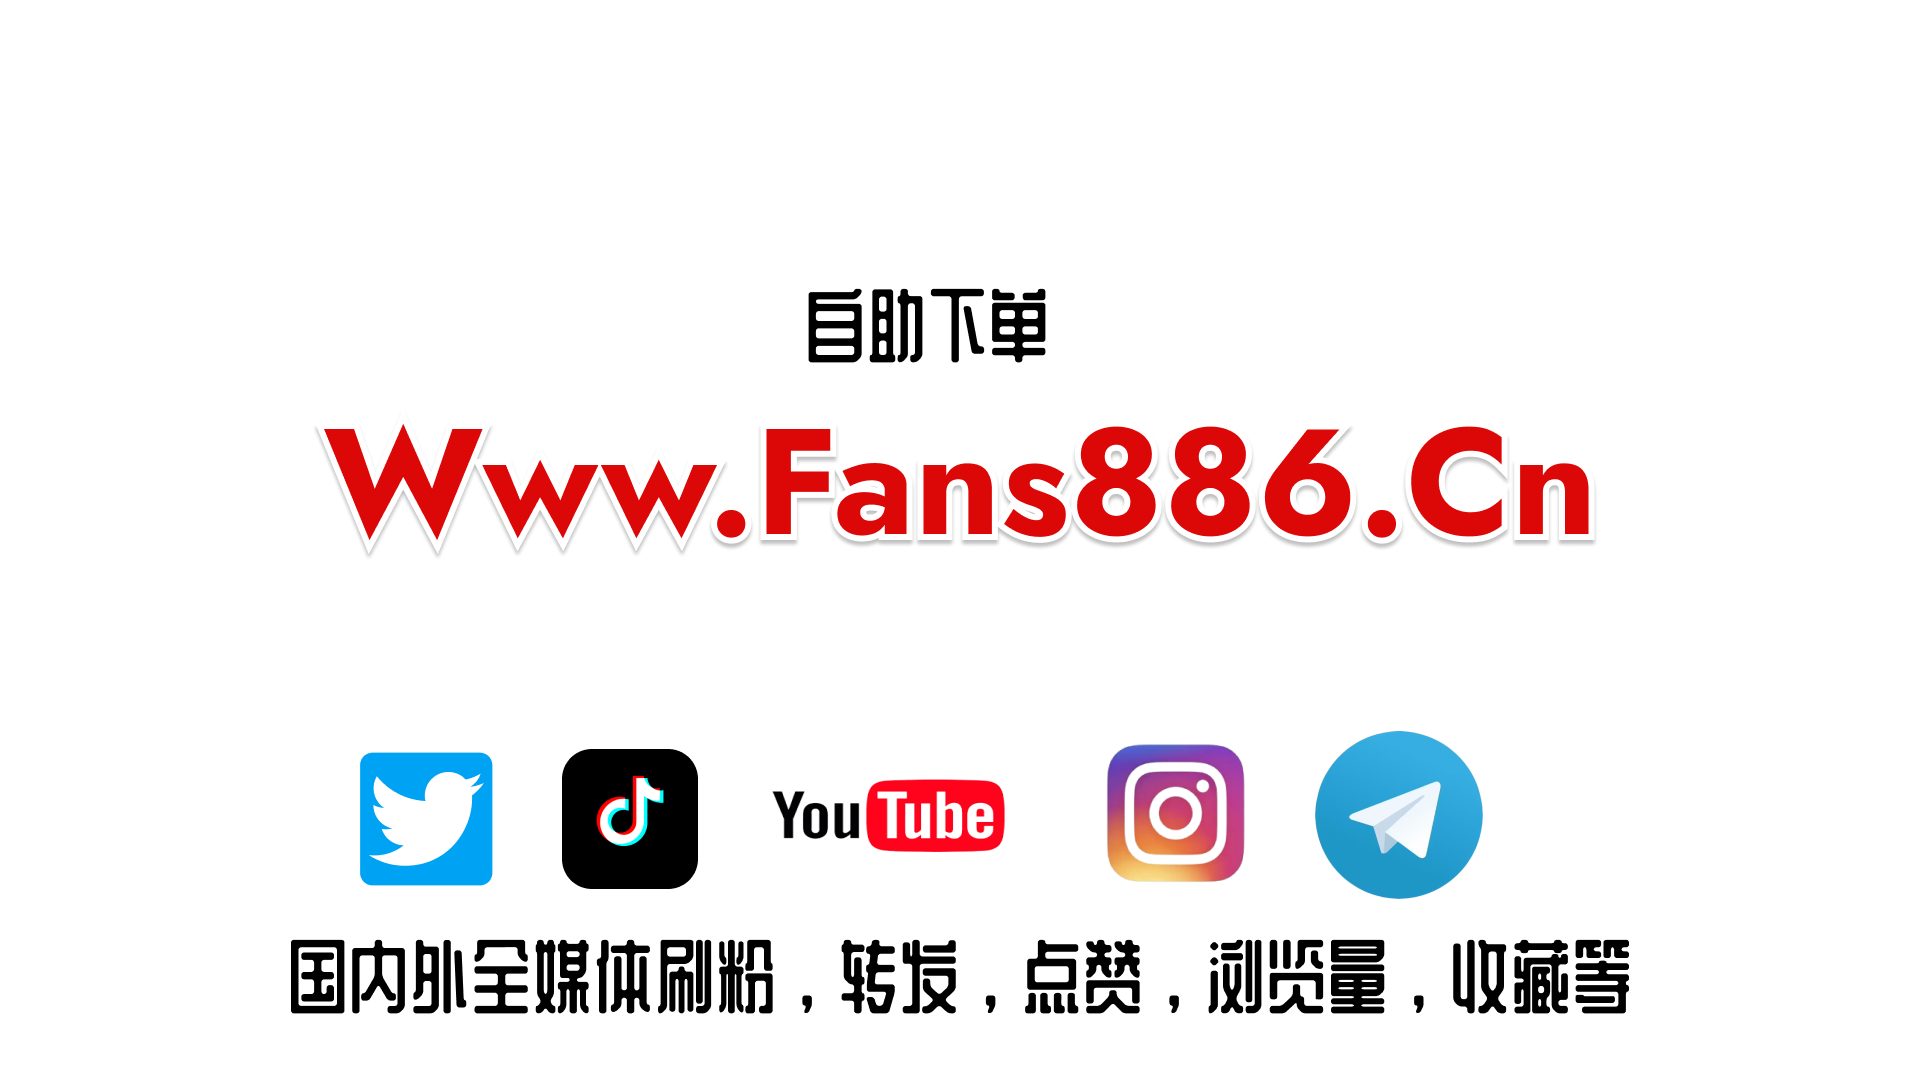
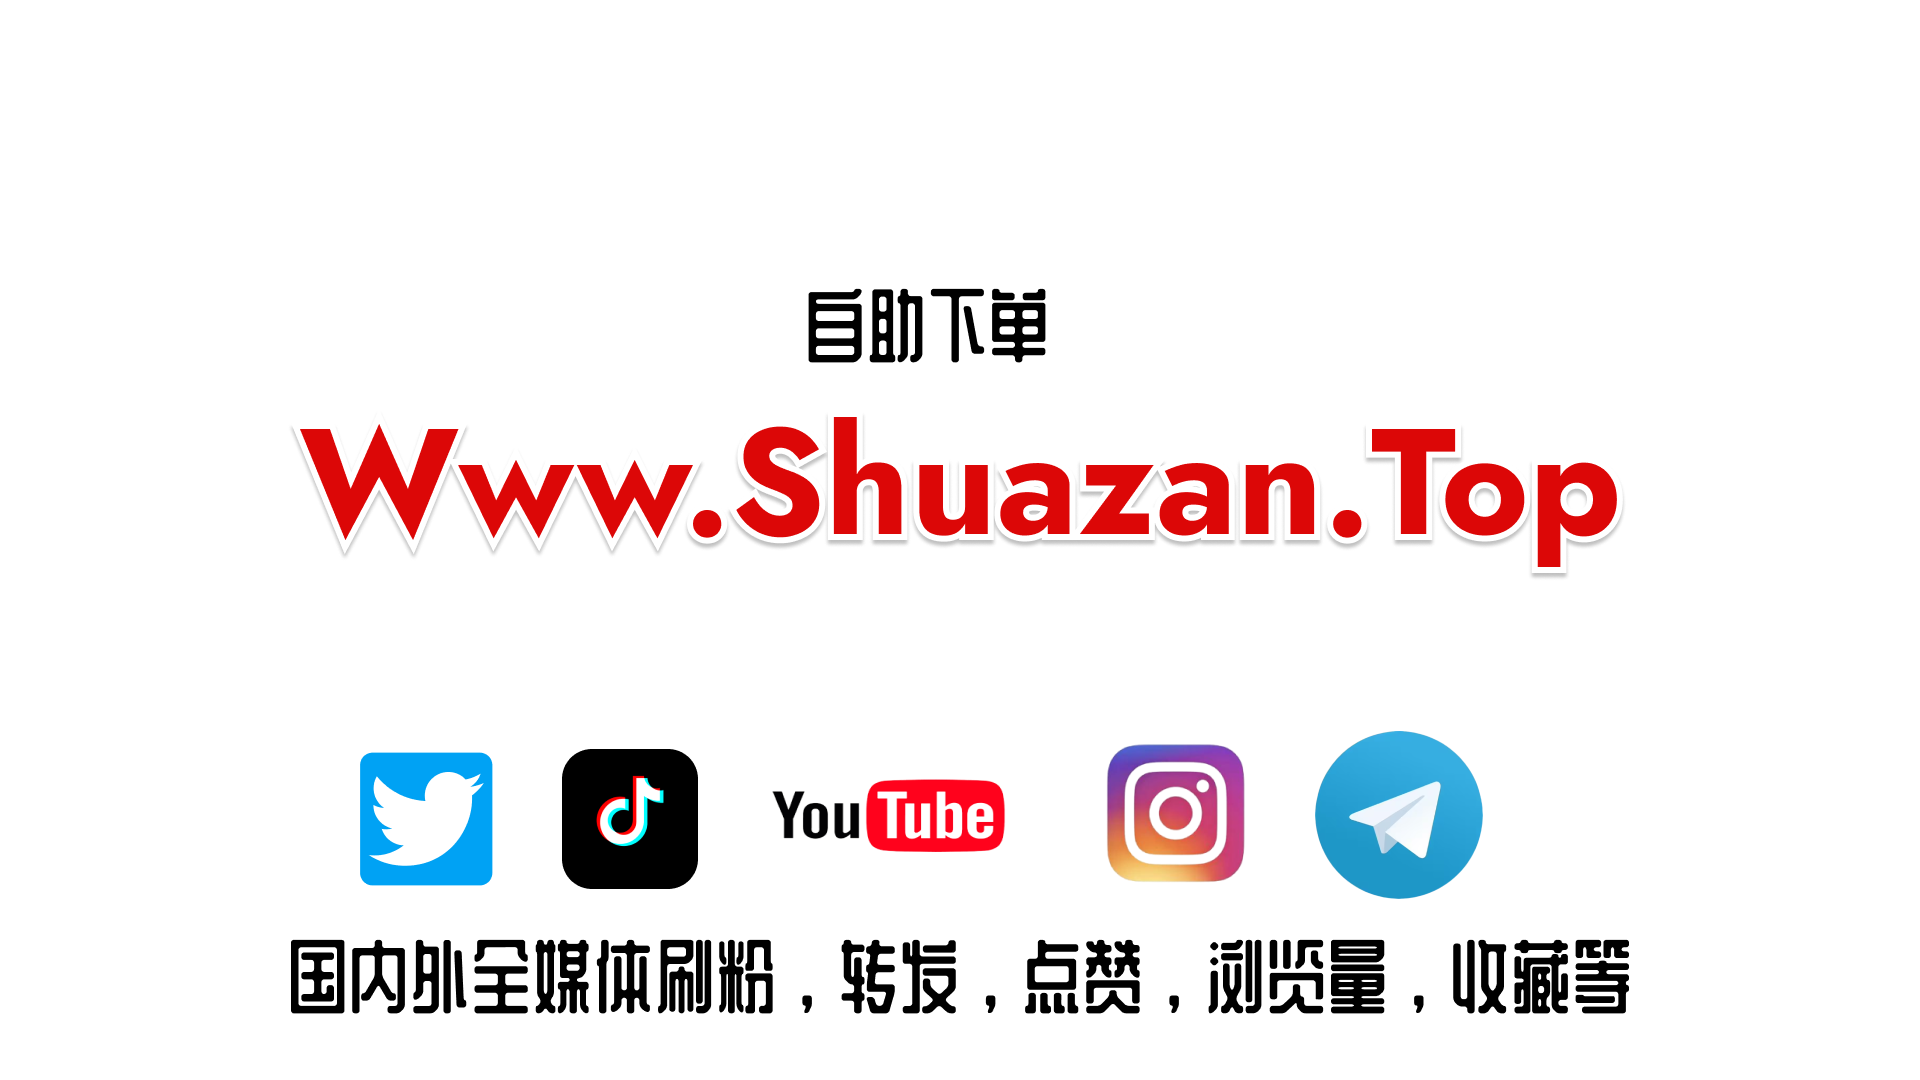
update: setInterval send

Changed region(s): [[0.1562, 0.3667, 0.8438, 0.55]]

diff --git a/bot.js b/bot.js
@@ -52,7 +52,7 @@ const imgInit = './srcImg/show.png'
 const interval = 1000 * 60 * 5;
 
 // tweet content
-const tweetStatus = ' #推特刷粉  ';
+const tweetStatus = ' #推特刷粉 #推特粉丝  #推特刷粉平台 #推特刷赞 #推特涨粉 #shuazan.top ';
 
 // img src
 const imgPath = './mergeImg/image.png'
@@ -95,20 +95,26 @@ async function postTweetWithImage (status) {
     });
     count++
     console.log('Success:', newTweet.data.text);
-    fs.unlink('./mergeImg/image.png', (err) => {
+    await fs.unlink('./mergeImg/image.png', (err) => {
       if (err) throw err;
       console.log('File has been deleted!');
     });
-    console.log('success count:',count);
+    console.log('success count:', count);
 
   } catch (error) {
+    count++
+    console.log('count:', count);
+
     console.error('Error:', error);
   }
 }
 
-// postTweetWithImage(tweetStatus);
+postTweetWithImage(tweetStatus);
 
-// timed loop posting
-setInterval(() => {
-  postTweetWithImage(tweetStatus);
+setInterval(async () => {
+  try {
+    await postTweetWithImage(tweetStatus);
+  } catch (error) {
+    console.error('Error:', error);
+  }
 }, interval);
